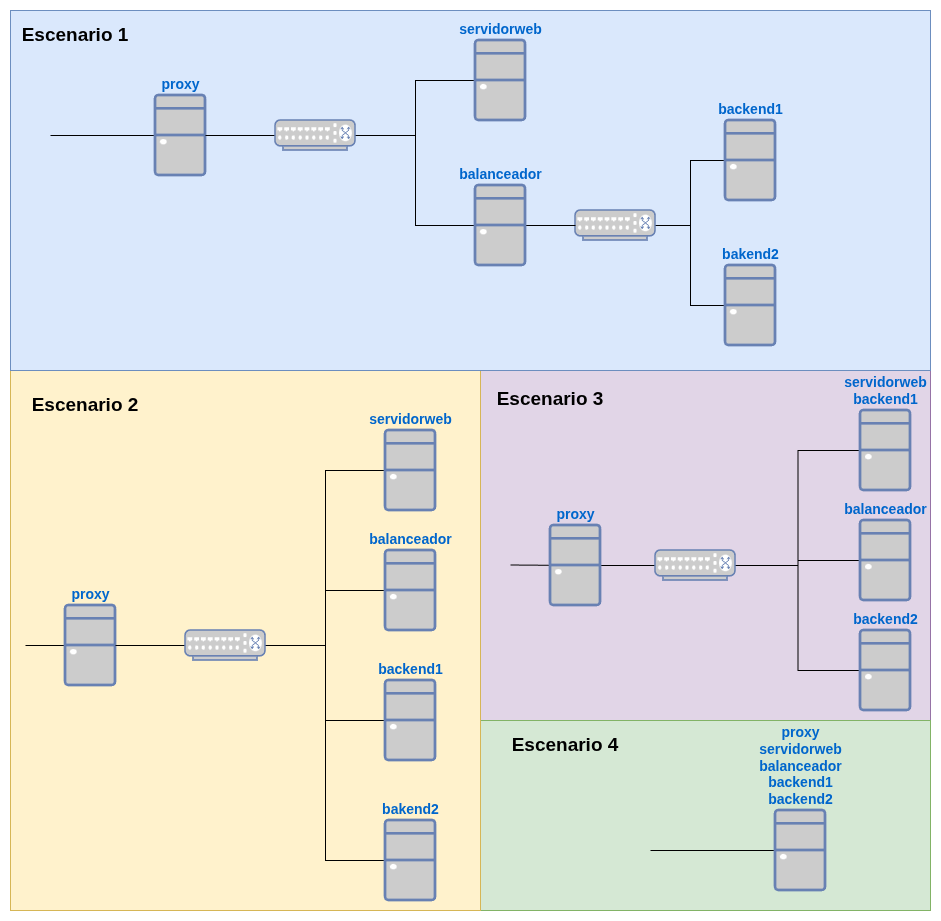
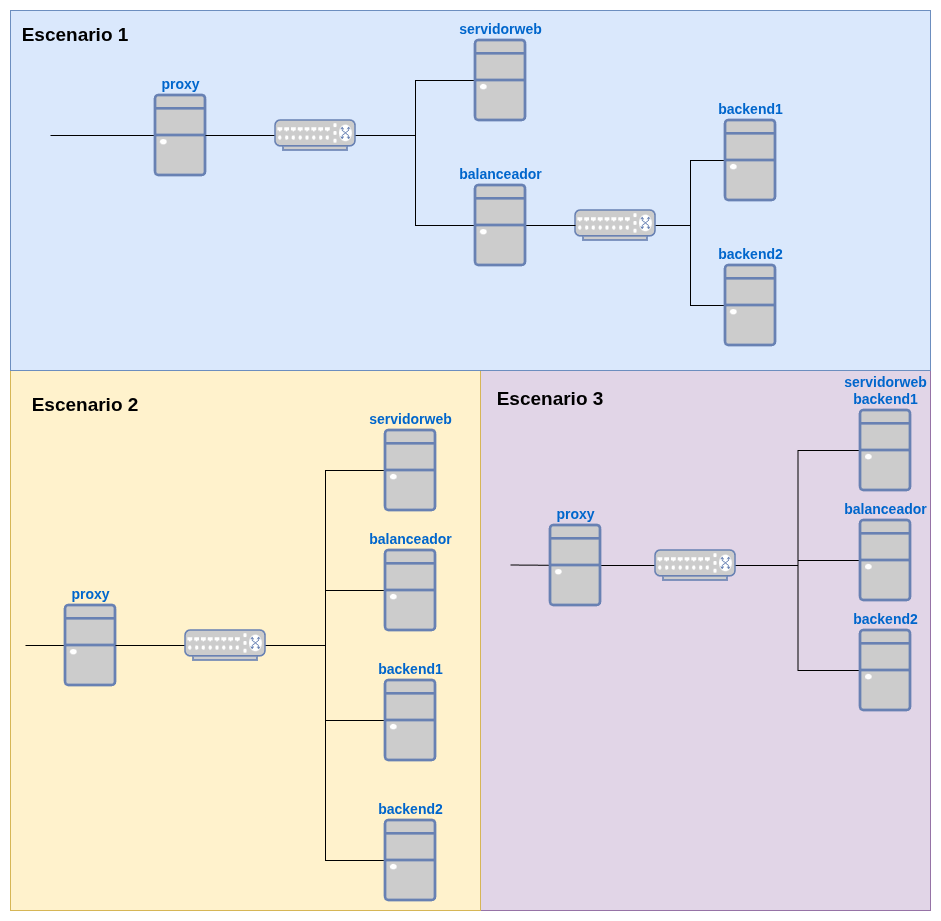
sri

diff --git a/apps/fp/src/content/sri/main/u2/que_saber.md b/apps/fp/src/content/sri/main/u2/que_saber.md
@@ -113,6 +113,66 @@ Usa esta lista para repasar la unidad. Ve marcando lo que ya dominas: se guarda 
 - [ ] Sé tener Apache y Nginx a la vez en puertos distintos y comprobar con `ss -tlnp` qué proceso escucha en cada uno.
 - [ ] Sé investigar un 403, un 404, un 500 o un 502, por qué sale otro sitio o por qué no arranca el servidor (sintaxis, puerto ocupado), mirando el `error.log`.
 
+## Proxy inverso
+
+- [ ] Sé explicar qué hace un proxy inverso y por qué, para el backend, el cliente es el proxy (la conexión TCP la abre el proxy).
+- [ ] Identifico casos de uso del proxy inverso: ocultar los backends, publicar varias aplicaciones con un solo nombre o IP, terminación TLS, caché…
+- [ ] Sé explicar qué problema hay con la cabecera `Host` que llega al backend cuando tiene virtual hosts por nombre, y cómo se resuelve (`ProxyPreserveHost` en Apache, `proxy_set_header Host` o `proxy_params` en Nginx).
+- [ ] Sé explicar por qué hay que reescribir la cabecera `Location` de las redirecciones del backend (`ProxyPassReverse` en Apache; en Nginx lo hace `proxy_redirect default`).
+- [ ] Sé explicar por qué una aplicación publicada en una subruta puede salir rota (rutas absolutas como `/css/estilo.css`) y por qué los enlaces relativos sí funcionan.
+- [ ] Sé configurar un proxy inverso con Apache (`mod_proxy`, `ProxyPass`, `ProxyPassReverse`) y con Nginx (`proxy_pass`, `include proxy_params`).
+- [ ] Sé explicar qué cambia la barra final de `proxy_pass` en Nginx (quitar el prefijo de la subruta o pasar la URL entera) y por qué `/shop` sin barra se redirige a `/shop/`.
+- [ ] Sé explicar para qué sirven las cabeceras `X-Forwarded-For`, `X-Real-IP` y `X-Forwarded-Proto`.
+
+## Balanceo de carga con HAProxy
+
+- [ ] ¿Sé diferenciar los algoritmos de balanceo estáticos (round robin, ponderado, afinidad, hash) de los dinámicos (conexiones mínimas, menor tiempo de respuesta)?
+- [ ] Identifico las secciones de `haproxy.cfg` (`global`, `defaults`, `frontend`, `backend`, `listen`) y sé configurar un balanceador con dos servidores.
+- [ ] Sé comprobar la configuración de haproxy antes de aplicarla (`haproxy -c -f`) y ver sus mensajes en el journal.
+- [ ] Sé explicar cómo funcionan los *health checks* (`check`, `inter`, `fall`, `rise`), qué pasa cuando cae un servidor y por qué, si caen todos, responde 503.
+- [ ] Sé explicar por qué el servidor web ve la IP del balanceador y cómo registrar la IP real del cliente (`option forwardfor` y el formato del log).
+- [ ] Sé explicar por qué se pierde una sesión de PHP sin afinidad y cómo la mantiene haproxy con una cookie (`cookie SERVERID insert`).
+- [ ] Sé configurar la página de estadísticas de haproxy con autenticación y explicar qué muestra (UP, DOWN, MAINT).
+- [ ] ¿Sé diferenciar la función del proxy inverso (decide adónde va cada petición por el nombre o la ruta) de la del balanceador (reparte entre servidores que sirven lo mismo)?
+
+## Tipos de almacenamiento
+
+- [ ] ¿Sé diferenciar DAS, NAS, SAN y almacenamiento en la nube: cómo se accede, qué se comparte (bloques, ficheros u objetos) y para qué se usa cada uno?
+- [ ] Sé explicar dónde está el sistema de ficheros en una NAS (en el servidor) y en una SAN (en el cliente, que formatea el disco).
+- [ ] Sé explicar por qué un disco de una SAN no se debe montar a la vez en dos clientes con un sistema de ficheros tradicional y por qué un directorio NFS sí se puede compartir.
+
+## RAID 5 y LVM
+
+- [ ] Sé explicar cómo funciona un RAID 5 (datos y paridad repartidos), cuántos discos necesita, cuántos pueden fallar y qué tamaño útil tiene.
+- [ ] Sé crear un RAID 5 con `mdadm`, comprobar su estado (`/proc/mdstat`, `mdadm --detail`) y hacer que se mantenga tras reiniciar (`mdadm.conf` y `update-initramfs -u`).
+- [ ] Sé explicar por qué un RAID puede aparecer como `md127` después de reiniciar.
+- [ ] Sé crear volúmenes lógicos sobre el RAID (volumen físico, grupo de volúmenes y volúmenes lógicos) y explicar qué ventaja tiene LVM.
+- [ ] Sé explicar por qué el volumen de la NAS se formatea en el servidor y los de la SAN no.
+
+## NAS con NFS
+
+- [ ] Sé explicar qué hace el servidor NFS (exporta directorios) y qué hace el cliente (los monta), y qué puerto usa NFSv4.
+- [ ] Sé exportar un directorio en `/etc/exports` a una red o a un equipo, en lectura y escritura o solo lectura, y aplicar los cambios (`exportfs -ra`, `exportfs -v`).
+- [ ] Sé explicar cómo comprueba NFS los permisos (con el UID y el GID del cliente) y qué hacen `root_squash`, `no_root_squash` y `all_squash`.
+- [ ] Sé resolver un *Permission denied* al escribir en un directorio NFS dando permisos en el servidor, y por qué `no_root_squash` es peligroso.
+- [ ] Sé montar un directorio NFS en el cliente y servir su contenido desde un servidor web (permisos de `www-data`, `<Directory>` o alias).
+
+## SAN con iSCSI
+
+- [ ] Identifico los elementos de iSCSI: target, LUN, portal, initiator e IQN.
+- [ ] Sé configurar un target con `tgt` (`backing-store`, `incominguser`, `initiator-address`) y comprobar sus LUN.
+- [ ] Sé descubrir los targets desde el cliente (`iscsiadm -m discovery`), configurar la autenticación CHAP en el nodo y conectarme (`--login`).
+- [ ] Sé ver las sesiones activas y los discos que ha recibido el cliente (`iscsiadm -m session`, `lsblk -S`), y desconectarme (`--logout`) desmontando antes el disco.
+- [ ] Sé hacer que el cliente vuelva a conectarse al target al arrancar (`node.startup automatic`).
+
+## Montajes al arrancar con systemd
+
+- [ ] Sé explicar qué es una unidad de montaje (`.mount`) y por qué su nombre tiene que coincidir con la ruta (`systemd-escape`).
+- [ ] Sé escribir una unidad `.mount` para un directorio NFS y para un disco iSCSI, y activarla (`daemon-reload`, `enable --now`).
+- [ ] Sé explicar por qué un disco iSCSI se monta por UUID y no por `/dev/sdX`.
+- [ ] Sé explicar por qué un montaje por red tiene que esperar a la red (`_netdev`, `After=network-online.target`) y, en iSCSI, al servicio `open-iscsi`.
+- [ ] Sé investigar los problemas frecuentes: `access denied by server`, `authorization failure`, el disco que no aparece o cambia de nombre y el `Where=` que no coincide con el nombre de la unidad.
+
 <style>
   .task-list-item {
     list-style: none;

diff --git a/apps/fp/src/content/sri/main/u2/practica.md b/apps/fp/src/content/sri/main/u2/practica.md
@@ -15,7 +15,6 @@ Podemos hacer la práctica en varios escenarios distintos:
 * **Escenario 1**: Es más real, tenemos cada servidor en una red privada.
 * **Escenario 2**: En este caso todos los servidores están en la misma red.
 * **Escenario 3**: En este caso sólo tenemos dos servidores web, uno de ellos será backend para el balanceador de carga y servidor web para el acceso desde el proxy inverso.
-* **Escenario 4**: Todos los servicios están en un servidor, habrá que trabajar con los puertos.
 
 ![practica](img/practica.png)
 
@@ -54,7 +53,7 @@ El servidor web tendrá además dos aplicaciones web implantadas en contenedores
     ?>
     ```
 * La página balanceada será accesible desde el proxy inverso con la url `app.tunombre.org`.
-* Configura la página de estadísticas de haproxy.
+* Configura la página de estadísticas de haproxy, con autenticación.
 
 ### Proxy inverso
 
@@ -105,7 +104,7 @@ Ya tenemos el servidor de almacenamiento preparado, vamos a añadir la funcional
 
 El sistema debe funcionar después de un reinicio de las máquinas: el cliente tiene que volver a conectarse al target y montar el disco solo.
 
-**Pregunta**: ¿Qué ocurriría si montamos el mismo dispositivo en otra máquina? ¿Podrían leer las dos máquinas del mismo disco? ¿Y escribir?
+**Pregunta**: ¿Qué ocurriría si montamos el mismo dispositivo en otra máquina? ¿Podrían leer las dos máquinas del mismo disco? ¿Y escribir? ¿Por qué?
 
 ### Servidor NAS
 
@@ -115,28 +114,28 @@ Ahora vamos a crear un servidor NAS en nuestro servidor de almacenamiento, para 
 * Monta el volumen en un directorio del servidor (por ejemplo `/srv/nfs`) de forma **permanente**, para que siga montado después de reiniciar. Configura el servicio NFS para **exportar** dicho directorio a la red local, de modo que cualquier servidor del mismo segmento pueda acceder con permisos de lectura y escritura.
 * En `backend1`, **monta el directorio compartido** en una carpeta local.
 * Haz lo mismo en `backend2`.
-* Crea una página web en dicho directorio y añade un **alias** al virtualhost para que se sirva dicha página. Si al crearla obtienes *Permission denied*, piensa por qué (recuerda la opción `root_squash` y cómo comprueba NFS los permisos) y resuélvelo dando los permisos adecuados en el servidor.
+* Crea una página web en dicho directorio y añade un **alias** en el sitio web de **los dos backends** (el que se sirve con `app.tunombre.org`) para que se sirva dicha página: como las peticiones se reparten entre los dos, si solo lo añades en uno, la mitad de las veces la página no se encontrará. Si al crearla obtienes *Permission denied*, piensa por qué (recuerda la opción `root_squash` y cómo comprueba NFS los permisos) y resuélvelo dando los permisos adecuados en el servidor.
 * Configura los servidores backend para que el **montaje NFS se realice automáticamente al arrancar** utilizando una unidad de montaje de systemd.
 
-**Pregunta**: ¿Ha habido algún problema de que el directorio esté compartido en los dos servidores? ¿Qué ocurre si modificas el fichero en uno de ellos?
+**Pregunta**: ¿Ha habido algún problema de que el directorio esté compartido en los dos servidores? ¿Qué ocurre si modificas el fichero en uno de ellos? ¿Por qué con NFS no pasa lo mismo que con el disco iSCSI montado en dos máquinas?
 
 :::tip[Entrega del servidor de almacenamiento]
 Las comprobaciones se entregan como texto, con el comando y su salida.
 
-1. El RAID5 y los volúmenes: la salida de `mdadm --detail` (o `lsblk`) donde se vea el tamaño del RAID5, con la respuesta a la pregunta, y la de `lvs` con los volúmenes creados.
+6. El RAID5 y los volúmenes: la salida de `mdadm --detail` (o `lsblk`) donde se vea el tamaño del RAID5, con la respuesta a la pregunta, y la de `lvs` con los volúmenes creados.
 
 ### Del servidor SAN
 
-2. El contenido del fichero de configuración del servidor iSCSI.
-3. En el cliente iSCSI: el descubrimiento de los targets (comando y salida), la instrucción para ver las sesiones que tienes activas y la lista de dispositivos, para ver los dispositivos que se han compartido.
-4. El fichero de la unidad de montaje y, después de reiniciar las máquinas, las pruebas de que el cliente ha vuelto a conectarse al target y el disco está montado (por ejemplo `uptime`, `iscsiadm -m session` y `findmnt`).
-5. Contesta la pregunta, después de buscar información.
+7. El contenido del fichero de configuración del servidor iSCSI.
+8. En el cliente iSCSI: el descubrimiento de los targets (comando y salida), la instrucción para ver las sesiones que tienes activas y la lista de dispositivos, para ver los dispositivos que se han compartido.
+9. El fichero de la unidad de montaje y, después de reiniciar las máquinas, las pruebas de que el cliente ha vuelto a conectarse al target y el disco está montado (por ejemplo `uptime`, `iscsiadm -m session` y `findmnt`).
+10. Contesta la pregunta, después de buscar información.
 
 ### Del servidor NAS
 
-6. Cómo has montado el volumen de forma permanente en el servidor de almacenamiento (`/etc/fstab` o unidad de montaje) y el fichero de configuración del servidor NFS.
-7. El fichero de la unidad de montaje de systemd de los backends y la comprobación, después de reiniciar, de que el directorio está montado en `backend1` y en `backend2`. Cómo has resuelto los permisos para crear la página en el directorio compartido. El acceso a la página por `app.tunombre.org`, servida mediante el alias del virtualhost.
-8. Contesta la pregunta, después de buscar información.
+11. Cómo has montado el volumen de forma permanente en el servidor de almacenamiento (`/etc/fstab` o unidad de montaje) y el fichero de configuración del servidor NFS.
+12. El fichero de la unidad de montaje de systemd de los backends y la comprobación, después de reiniciar, de que el directorio está montado en `backend1` y en `backend2`. Cómo has resuelto los permisos para crear la página en el directorio compartido. La configuración del alias en los dos backends y el acceso a la página por `app.tunombre.org`.
+13. Contesta la pregunta, después de buscar información.
 :::
 
 ## Vídeo de demostración

diff --git a/apps/fp/src/content/sri/main/u2/index.md b/apps/fp/src/content/sri/main/u2/index.md
@@ -9,7 +9,7 @@ toc: false
   * [Tarea 2.1: Servidor web](tarea1/)
 * [Proxy inverso y balanceador de carga](https://raw.githubusercontent.com/josedom24/marp-presentaciones/main/sri/proxy_balanceador.pdf)
   * [Tarea 2.2: Proxy inverso y balanceador de carga](tarea2/)
-* [¿Qué tengo que saber de esta unidad?](que_saber/)
 * [Protocolos de almacenamiento](https://raw.githubusercontent.com/josedom24/marp-presentaciones/main/sri/almacenamiento.pdf)
   * [Práctica: Protocolo HTTP y almacenamiento](practica/)
+* [¿Qué tengo que saber de esta unidad?](que_saber/)
 
